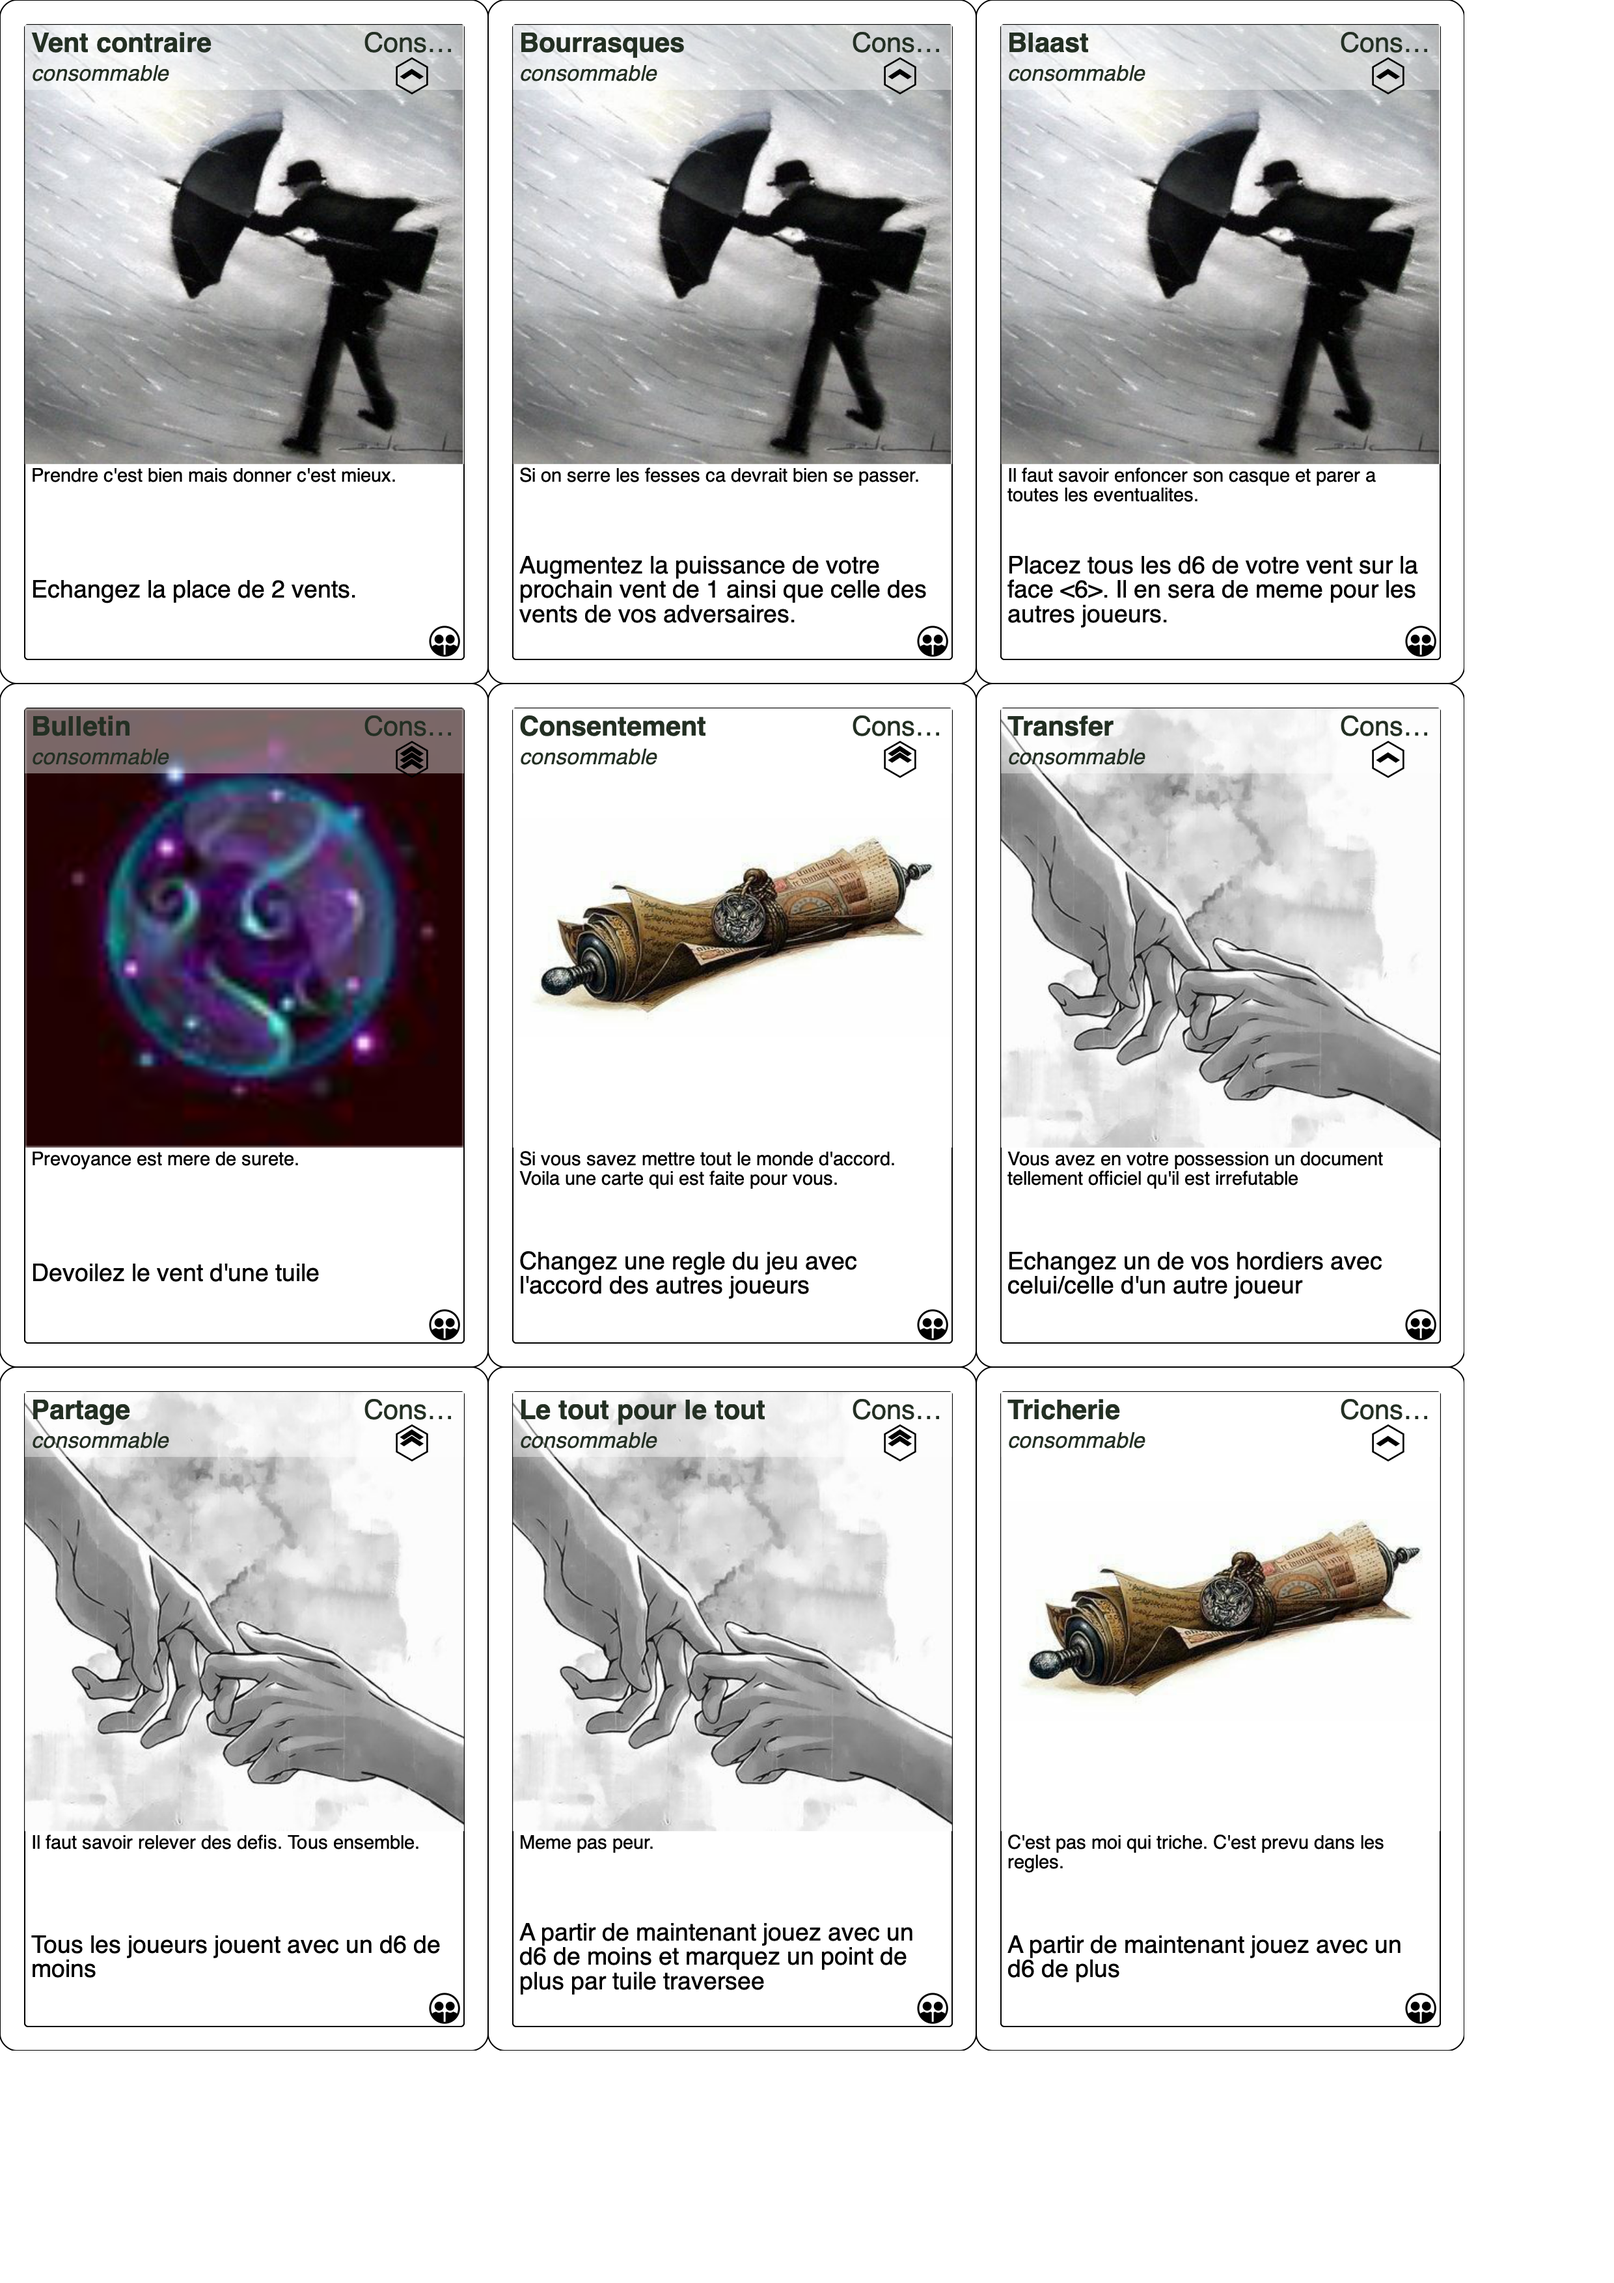
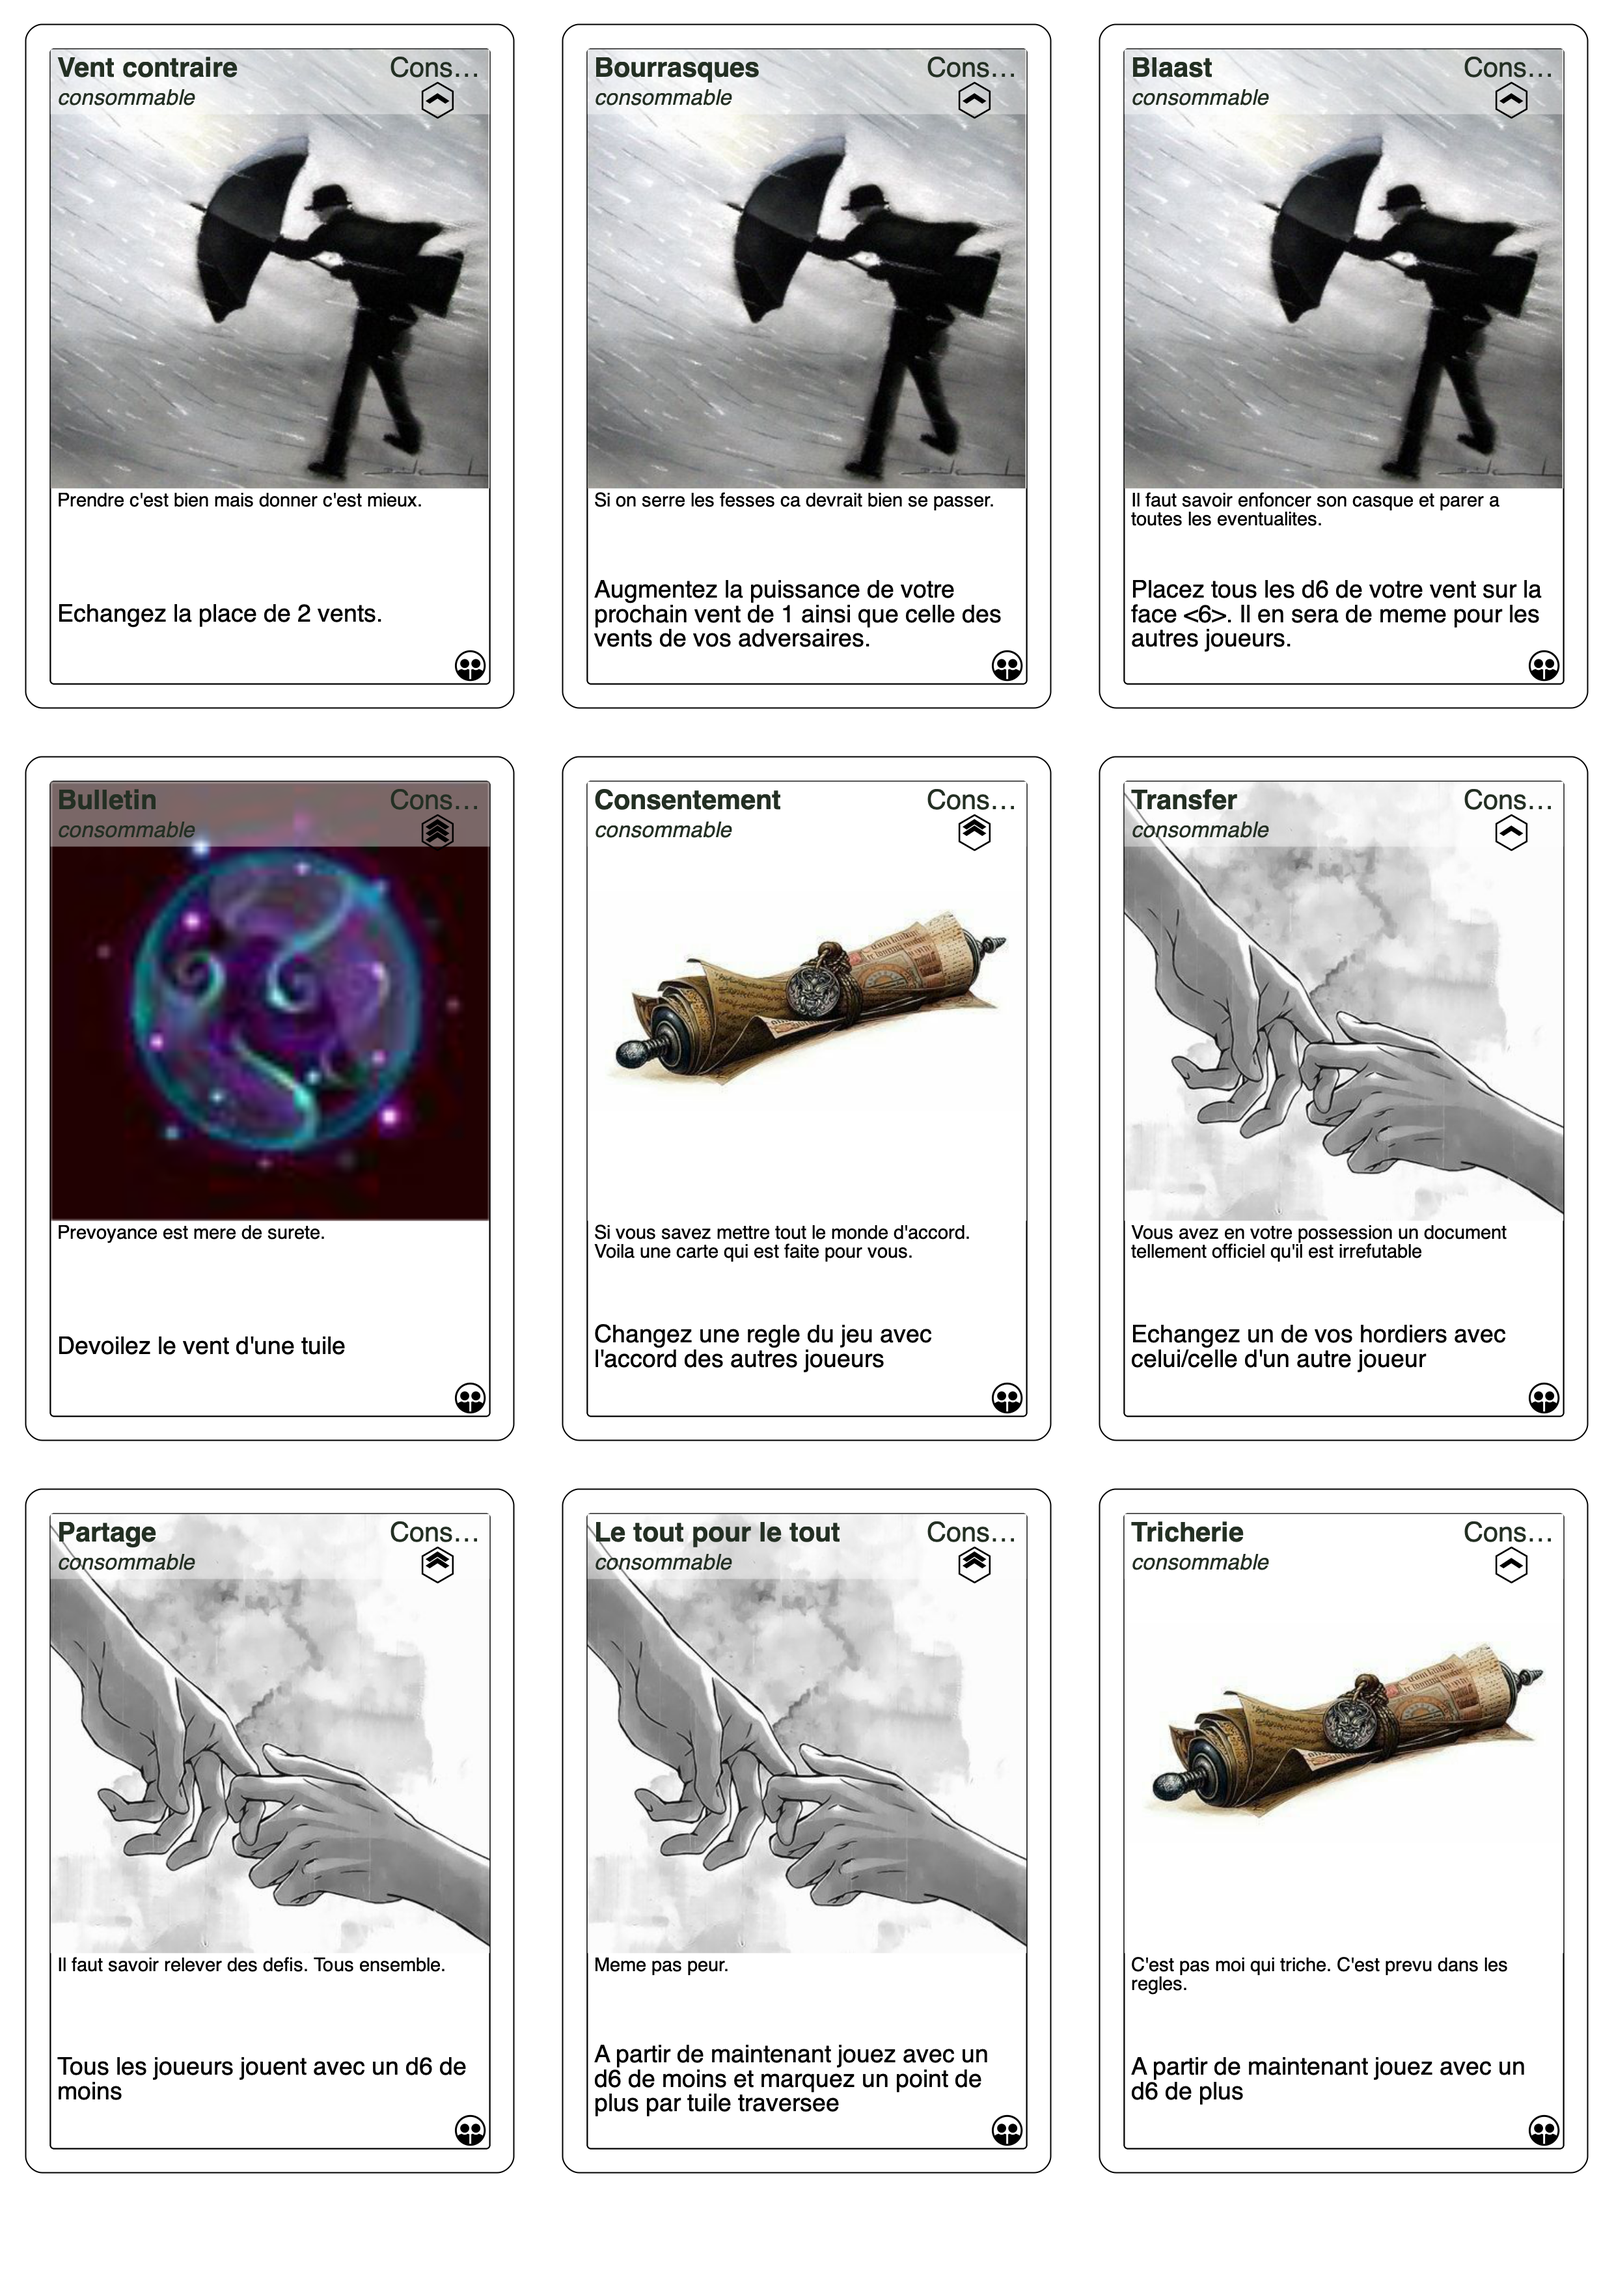
Implementation correcte du bleed pour les cartes a jouer

diff --git a/src/main/ruby/land_cards.rb b/src/main/ruby/land_cards.rb
@@ -2,12 +2,8 @@ require 'squib'
 
 deck = Squib.csv file: %w(src/resources/land_cards.csv)
 
-Squib::Deck.new(cards: deck["Chapter"].size,
-                layout: %w(src/resources/lands-6cm.yml),
-#                layout: %w(src/resources/lands.yml),
-                width: "6.8cm", height: "5.9cm") do 
-#                width: "2.8in", height: "2.5in") do 
 
+def drawTile(deck, dirname) do
   png file: deck["Image"].map { |img| 
     if (img == nil) 
       "src/resources/terrain/city/_aberlaas.png" 
@@ -70,5 +66,32 @@ Squib::Deck.new(cards: deck["Chapter"].size,
 
   polygon layout: deck["Type"]
 
-  save_png prefix: deck["Chapter"].map{|str| str+"."}, dir: '_terrain'
+  save_png prefix: deck["Chapter"].map{|str| str+"."}, dir: dirname
+end
+
+
+def drawCutlines(deck, dirname) do  
+  polygon layout: :bleed
+  polygon layout: :cut
+#  polygon layout: :outline
+  save_png prefix: deck["Chapter"].map{|str| str+"."}, dir: dirname
+end
+
+
+Squib::Deck.new(cards: deck["Chapter"].size,
+                layout: %w(src/resources/lands-6cm.yml),
+#                layout: %w(src/resources/lands.yml),
+                width: "6.8cm", height: "5.9cm") do 
+#                width: "2.8in", height: "2.5in") do 
+
+  drawTile(deck, '_terrain')
+end
+
+Squib::Deck.new(cards: 12,
+                layout: %w(src/resources/lands-6cm.yml),
+#                layout: %w(src/resources/lands.yml),
+                width: "6.8cm", height: "5.9cm") do 
+#                width: "2.8in", height: "2.5in") do 
+
+drawCutlines(deck, '_terrain_cut')
 end

diff --git a/src/main/ruby/horde_cards.rb b/src/main/ruby/horde_cards.rb
@@ -15,6 +15,7 @@ def drawCards(deck,dirname)
 #  safe_zone radius: 0.0, stroke_color: :red
   rect layout: :bleed
   rect layout: :cut
+  rect layout: :inside
 
   fill_color = Hash.new
   fill_color["Pack"] = "#AAAAFF"
@@ -51,12 +52,34 @@ def drawCards(deck,dirname)
 
 end
 
+def drawCutlines(deck,dirname)
+  #  rect layout: :bleed
+  #  rect layout: 'cut', stroke_color: :black # cut line as defined by TheGameCrafter
+  #  cut_zone radius: 0.0,  stroke_color: :black
+  #  rect layout: :frame # safe zone as defined by TheGameCrafter
+  #  rect layout: :frame, fill_color: :white
+  #  rect layout: :inside
+  #  safe_zone radius: 0.0, stroke_color: :red
+    rect layout: :bleed
+    rect layout: :cut
+#    rect layout: :inside
+    save_png prefix: deck["Id"].zip(deck["Position"],deck["Nom"],deck["Tier"]).map{|name| "%03d.%s.%s.T%s."%name}, dir: dirname#dir: '_cards'
+  end
+  
 
 Squib::Deck.new(cards: deck1["Nom"].size,
                 layout: %w(src/resources/Vlayout.yml src/resources/Vcards.yml),
-                width: '2.5in', height: '3.5in') do
+                width: '2.75in', height: '3.75in') do
   drawCards(deck1,'_cards1')
 end
+
+
+Squib::Deck.new(cards: 9,
+                layout: %w(src/resources/Vlayout.yml src/resources/Vcards.yml),
+                width: '2.75in', height: '3.75in') do
+  drawCutlines(deck1, '_cards_cut')
+end
+
 
 # Squib::Deck.new(cards: deck2["Nom"].size,
 #                 layout: %w(src/resources/Vlayout.yml src/resources/Vcards.yml),
